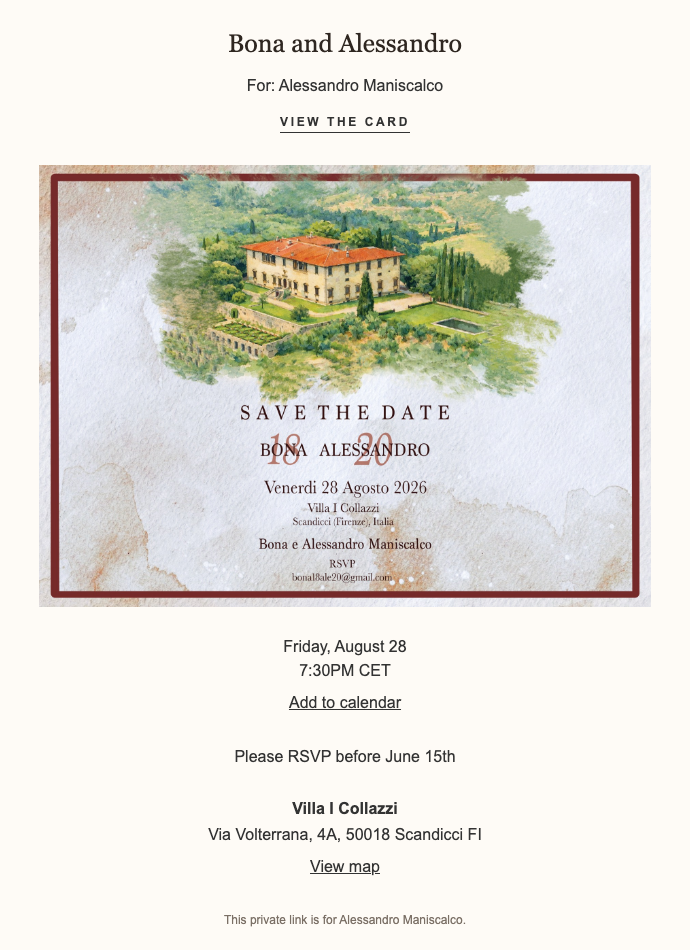
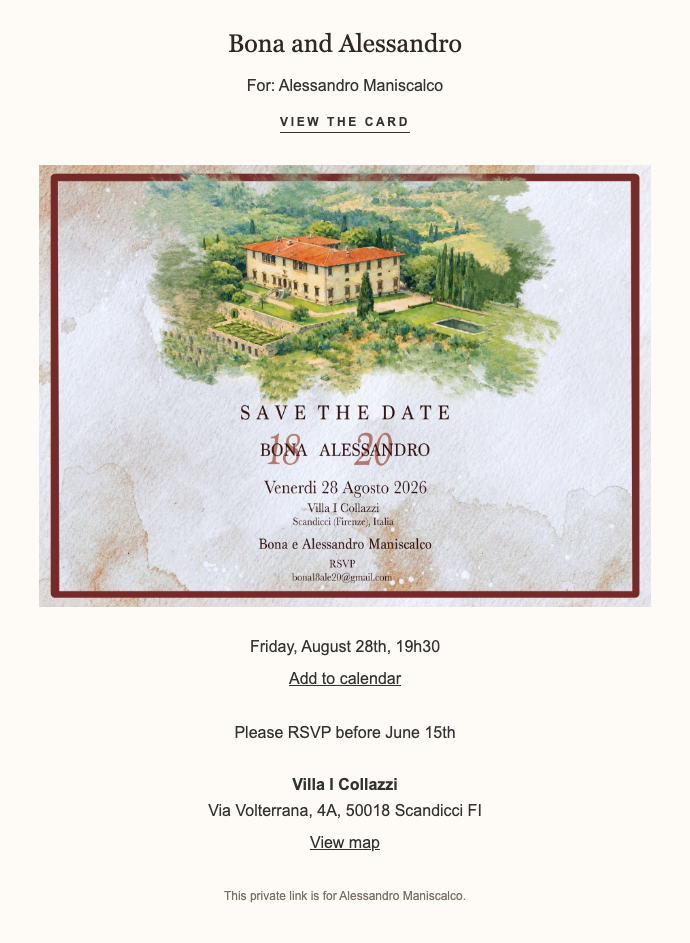
Update RSVP options and date wording

diff --git a/src/components/invitation/rsvp-modal.tsx b/src/components/invitation/rsvp-modal.tsx
@@ -24,6 +24,10 @@ function isImpliedPartyQuestion(question: Question) {
   return question.id === PARTY_QUESTION_ID;
 }
 
+function hasWalkingDinnerQuestion(questions: Question[]) {
+  return questions.some((question) => question.id === WALKING_DINNER_QUESTION_ID);
+}
+
 function buildGuestSelections(guests: Guest[], status: AttendanceStatus) {
   return Object.fromEntries(
     guests.map((guest) => [guest.id, status === "attending"]),
@@ -34,12 +38,13 @@ function buildAnswers(
   questions: Question[],
   response: PartyResponse | undefined,
   status: AttendanceStatus,
+  implyParty: boolean,
 ) {
   return Object.fromEntries(
     questions.map((question) => [
       question.id,
       status === "attending"
-        ? isImpliedPartyQuestion(question) || response?.answers[question.id] || false
+        ? (implyParty && isImpliedPartyQuestion(question)) || response?.answers[question.id] || false
         : false,
     ]),
   );
@@ -49,12 +54,13 @@ function normalizeAnswers(
   questions: Question[],
   answers: Record<string, boolean>,
   status: AttendanceStatus,
+  implyParty: boolean,
 ) {
   return Object.fromEntries(
     questions.map((question) => [
       question.id,
       status === "attending"
-        ? isImpliedPartyQuestion(question) || Boolean(answers[question.id])
+        ? (implyParty && isImpliedPartyQuestion(question)) || Boolean(answers[question.id])
         : false,
     ]),
   );
@@ -79,20 +85,20 @@ export function RsvpModal({
   const [note, setNote] = useState(initialResponse?.note ?? "");
   const [error, setError] = useState<string | null>(null);
   const [isPending, startTransition] = useTransition();
-  const visibleQuestions = questions.filter((question) => !isImpliedPartyQuestion(question));
-  const hasWalkingDinnerOption = questions.some(
-    (question) => question.id === WALKING_DINNER_QUESTION_ID,
+  const hasWalkingDinnerOption = hasWalkingDinnerQuestion(questions);
+  const implyParty = !hasWalkingDinnerOption;
+  const visibleQuestions = questions.filter(
+    (question) => hasWalkingDinnerOption || !isImpliedPartyQuestion(question),
   );
-  const attendingLabel = hasWalkingDinnerOption ? "Will attend the party" : "Will attend";
 
   useEffect(() => {
     if (!open) return;
     const status = preferredStatus ?? initialResponse?.status ?? "attending";
     setAttendanceStatus(status);
-    setAnswers(buildAnswers(questions, initialResponse, status));
+    setAnswers(buildAnswers(questions, initialResponse, status, implyParty));
     setNote(initialResponse?.note ?? "");
     setError(null);
-  }, [guests, initialResponse, open, preferredStatus, questions]);
+  }, [guests, implyParty, initialResponse, open, preferredStatus, questions]);
 
   useEffect(() => {
     if (!open) return;
@@ -144,7 +150,7 @@ export function RsvpModal({
               disabled={readOnly}
               onClick={() => {
                 setAttendanceStatus(status);
-                setAnswers(buildAnswers(questions, initialResponse, status));
+                setAnswers(buildAnswers(questions, initialResponse, status, implyParty));
               }}
               className={`rounded-full px-4 py-2 text-sm font-semibold transition ${
                 attendanceStatus === status
@@ -152,7 +158,7 @@ export function RsvpModal({
                   : "text-stone-600"
               }`}
             >
-              {status === "attending" ? attendingLabel : "Will not attend"}
+              {status === "attending" ? "Will attend" : "Will not attend"}
             </button>
           ))}
         </div>
@@ -224,7 +230,12 @@ export function RsvpModal({
               startTransition(async () => {
                 setError(null);
                 const selections = buildGuestSelections(guests, attendanceStatus);
-                const normalizedAnswers = normalizeAnswers(questions, answers, attendanceStatus);
+                const normalizedAnswers = normalizeAnswers(
+                  questions,
+                  answers,
+                  attendanceStatus,
+                  implyParty,
+                );
                 const response = await fetch("/api/rsvp", {
                   method: "POST",
                   headers: {

diff --git a/tests/e2e/invitation.spec.ts b/tests/e2e/invitation.spec.ts
@@ -4,18 +4,20 @@ test.setTimeout(60_000);
 
 test("guest preview invitation renders and accepts RSVP edits", async ({ page }) => {
   await page.goto("/i/preview-couple");
-  await expect(page.getByRole("button", { name: "Will attend the party" }).first()).toBeVisible();
+  await expect(page.getByRole("button", { name: "Will attend" }).first()).toBeVisible();
   await expect(page.getByText("Bona and Alessandro Maniscalco").first()).toBeVisible();
-  await expect(page.getByText("Thursday August 27th").first()).toBeVisible();
-  await expect(page.getByText("Friday August 28th").first()).toBeVisible();
+  await expect(page.getByText("Thursday, August 27th, 19h30").first()).toBeVisible();
+  await expect(page.getByText("Friday, August 28th, 19h30").first()).toBeVisible();
 
-  await page.getByRole("button", { name: "Will attend the party" }).first().click();
+  await page.getByRole("button", { name: "Will attend" }).first().click();
   await expect(
     page.getByRole("heading", { name: "Will you attend, Taylor & Jordan Russo?" }),
   ).toBeVisible();
   await expect(page.getByText("Bona and Alessandro Maniscalco").nth(1)).toBeVisible();
   await expect(page.getByText("Guest attendance")).toHaveCount(0);
-  await expect(page.getByLabel("The Party - Friday August 28th")).toHaveCount(0);
+  await page.getByLabel("Walking Dinner - Thursday, August 27th, 19h30").check();
+  await page.getByLabel("The Party - Friday, August 28th, 19h30").check();
+  await expect(page.getByLabel("Transfer needed for the party")).toBeVisible();
   await page.getByPlaceholder("Private message to host (optional)").fill("See you there.");
   const rsvpResponse = page.waitForResponse(
     (response) =>
@@ -30,6 +32,7 @@ test("guest preview invitation renders and accepts RSVP edits", async ({ page })
       guest_jordan: true,
     },
     answers: {
+      question_walking_dinner: true,
       question_party: true,
     },
   });
@@ -37,7 +40,7 @@ test("guest preview invitation renders and accepts RSVP edits", async ({ page })
   await expect(
     page.getByRole("heading", { name: "Will you attend, Taylor & Jordan Russo?" }),
   ).toBeHidden({ timeout: 15_000 });
-  await expect(page.getByRole("button", { name: "Will attend the party" }).first()).toBeVisible();
+  await expect(page.getByRole("button", { name: "Will attend" }).first()).toBeVisible();
 
   await page.getByRole("button", { name: "Will not attend" }).first().click();
   await expect(
@@ -46,7 +49,7 @@ test("guest preview invitation renders and accepts RSVP edits", async ({ page })
   await expect(page.getByText("Before you leave, kindly select your preferences below")).toHaveCount(
     0,
   );
-  await expect(page.getByLabel("The Party - Friday August 28th")).toHaveCount(0);
+  await expect(page.getByLabel("The Party - Friday, August 28th, 19h30")).toHaveCount(0);
   await page.getByPlaceholder("Private message to host (optional)").fill("Sorry to miss it.");
   const declineResponsePromise = page.waitForResponse(
     (response) =>
@@ -61,6 +64,7 @@ test("guest preview invitation renders and accepts RSVP edits", async ({ page })
       guest_jordan: false,
     },
     answers: {
+      question_walking_dinner: false,
       question_party: false,
     },
   });

diff --git a/src/lib/seed-data.ts b/src/lib/seed-data.ts
@@ -38,7 +38,7 @@ export function createSeedState(): AppState {
       heroBackdropSrc: "/assets/textures/kraft-paper.jpg",
       paperTextureSrc: "/assets/textures/card-paper.jpg",
       summaryName: "Bona and Alessandro Maniscalco",
-      summaryDateLabel: "Thursday, August 27, 7:30PM – Friday, August 28, 7:30PM CET",
+      summaryDateLabel: "Thursday, August 27th, 19h30 – Friday, August 28th, 19h30",
       summaryAddressName: "Villa I Collazzi",
       summaryAddressLabel: "Via Volterrana, 4A, 50018 Scandicci FI",
       introduction: "",
@@ -50,12 +50,12 @@ export function createSeedState(): AppState {
     questions: [
       {
         id: "question_walking_dinner",
-        label: "Walking Dinner - Thursday August 27th",
+        label: "Walking Dinner - Thursday, August 27th, 19h30",
         type: "checkbox",
       },
       {
         id: "question_party",
-        label: "The Party - Friday August 28th",
+        label: "The Party - Friday, August 28th, 19h30",
         type: "checkbox",
       },
       {
@@ -67,31 +67,31 @@ export function createSeedState(): AppState {
     itinerary: [
       {
         id: "itinerary_dinner",
-        dayLabel: "Thursday August 27th",
+        dayLabel: "Thursday, August 27th, 19h30",
         venueName: "Ristorante Frescobaldi Firenze",
         address: "31 Piazza della Signoria Firenze",
         mapUrl:
           "https://www.google.com/maps/search/?api=1&query=Ristorante+Frescobaldi+Firenze",
         title: "Walking Dinner",
-        datetimeLabel: "Thursday August 27th at 19h30",
+        datetimeLabel: "Thursday, August 27th, 19h30",
         dressCode: "Dress code - Casual Chic",
         description: "",
         imageSrc: "/assets/collazzi/thursday-restaurant.jpeg",
-        note: "Walking Dinner\nThursday August 27th at 19h30\nDress code - Casual Chic",
+        note: "Walking Dinner\nThursday, August 27th, 19h30\nDress code - Casual Chic",
       },
       {
         id: "itinerary_party",
-        dayLabel: "Friday August 28th",
+        dayLabel: "Friday, August 28th, 19h30",
         venueName: "Villa I Collazzi",
         address: "4A Via Volterrana, Impruneta",
         mapUrl:
           "https://www.google.com/maps/search/?api=1&query=Villa+I+Collazzi+Impruneta",
         title: "The Party",
-        datetimeLabel: "Friday August 28th at 19h30",
+        datetimeLabel: "Friday, August 28th, 19h30",
         dressCode: "Dress code - Black Tie and Long Dress",
         description: "",
         imageSrc: "/assets/collazzi/friday-villa.jpeg",
-        note: "The Party \nFriday August 28th at 19h30\nDress code - Black Tie and Long Dress",
+        note: "The Party \nFriday, August 28th, 19h30\nDress code - Black Tie and Long Dress",
         subItems: [
           {
             id: "itinerary_party_shuttle",

diff --git a/src/lib/providers/email-template.ts b/src/lib/providers/email-template.ts
@@ -29,6 +29,7 @@ export function renderInvitationEmail(input: InvitationEmailInput): InvitationEm
   const coupleName = "Bona and Alessandro";
   const cardUrl = absoluteUrl(input.appUrl, input.heroImageSrc || DEFAULT_CARD_IMAGE);
   const dateParts = splitDateLabel(input.summaryDateLabel);
+  const dateLine = [dateParts.date, dateParts.time].filter(Boolean).join(", ");
   const addressName = input.summaryAddressName || "Villa I Collazzi";
   const addressLabel = input.summaryAddressLabel || "Scandicci (Firenze), Italia";
   const mapUrl = input.mapUrl || DEFAULT_MAP_URL;
@@ -86,8 +87,7 @@ export function renderInvitationEmail(input: InvitationEmailInput): InvitationEm
             </tr>
             <tr>
               <td align="center" style="padding:0 40px;">
-                <div style="font-family:Arial,sans-serif;font-size:16px;line-height:24px;color:#333333;">${escapeHtml(dateParts.date)}</div>
-                <div style="font-family:Arial,sans-serif;font-size:16px;line-height:24px;color:#333333;">${escapeHtml(dateParts.time)}</div>
+                <div style="font-family:Arial,sans-serif;font-size:16px;line-height:24px;color:#333333;">${escapeHtml(dateLine)}</div>
                 <div style="font-family:Arial,sans-serif;font-size:16px;line-height:24px;color:#333333;padding-top:8px;">
                   <a href="${escapeAttribute(calendarUrl(input))}" target="_blank" style="color:#333333;text-decoration:underline;">Add to calendar</a>
                 </div>
@@ -131,8 +131,7 @@ export function renderInvitationEmail(input: InvitationEmailInput): InvitationEm
     isReminder ? "Reminder to view the card and RSVP:" : "View the card:",
     input.inviteUrl,
     "",
-    dateParts.date,
-    dateParts.time,
+    dateLine,
     "",
     `Please RSVP before ${rsvpLabel}`,
     "",
@@ -162,8 +161,8 @@ function absoluteUrl(appUrl: string, pathOrUrl: string) {
 function splitDateLabel(label?: string) {
   if (!label) {
     return {
-      date: "Friday, August 28",
-      time: "7:30PM CET",
+      date: "Friday, August 28th",
+      time: "19h30",
     };
   }
 
@@ -172,7 +171,9 @@ function splitDateLabel(label?: string) {
     .map((part) => part.trim())
     .filter(Boolean)
     .at(-1) ?? label;
-  const match = mainEvent.match(/^(.*?),?\s+(\d{1,2}:\d{2}\s*[AP]M.*)$/i);
+  const match = mainEvent.match(
+    /^(.*?),?\s+(\d{1,2}:\d{2}\s*[AP]M.*|\d{1,2}h\d{2}(?:\s*\w+)?)$/i,
+  );
 
   if (!match) {
     return {

diff --git a/src/components/invitation/invitation-experience.tsx b/src/components/invitation/invitation-experience.tsx
@@ -18,8 +18,6 @@ import type {
 
 import styles from "./invitation-experience.module.css";
 
-const WALKING_DINNER_QUESTION_ID = "question_walking_dinner";
-
 function MultilineText({ text, className }: { text: string; className?: string }) {
   return (
     <p className={className}>
@@ -130,10 +128,6 @@ export function InvitationExperience({ invitation }: { invitation: InvitationVie
   const [preferredStatus, setPreferredStatus] = useState<AttendanceStatus | undefined>(undefined);
   const [response, setResponse] = useState<PartyResponse | undefined>(invitation.party.response);
   const party = { ...invitation.party, response };
-  const hasWalkingDinnerOption = invitation.questions.some(
-    (question) => question.id === WALKING_DINNER_QUESTION_ID,
-  );
-  const attendingLabel = hasWalkingDinnerOption ? "Will attend the party" : "Will attend";
   const stageClass =
     stage === 0
       ? styles.stageClosed
@@ -263,7 +257,7 @@ export function InvitationExperience({ invitation }: { invitation: InvitationVie
                       response?.status === "attending" && styles.rsvpButtonActive,
                     )}
                   >
-                    {attendingLabel}
+                    Will attend
                   </button>
                   <button
                     type="button"

diff --git a/src/lib/__tests__/email-template.test.ts b/src/lib/__tests__/email-template.test.ts
@@ -7,7 +7,7 @@ const baseInput = {
   inviteUrl: "https://project-9pfy4.vercel.app/i/guest_example",
   partyLabel: "Alessandro Maniscalco",
   eventTitle: "Bona and Alessandro Maniscalco",
-  summaryDateLabel: "Thursday, August 27, 7:30PM – Friday, August 28, 7:30PM CET",
+  summaryDateLabel: "Thursday, August 27th, 19h30 – Friday, August 28th, 19h30",
   summaryAddressName: "Villa I Collazzi",
   summaryAddressLabel: "Via Volterrana, 4A, 50018 Scandicci FI",
   rsvpDeadline: "2026-06-15T18:00:00.000Z",
@@ -24,7 +24,7 @@ describe("renderInvitationEmail", () => {
     expect(email.subjectLine).toBe("Bona and Alessandro Maniscalco invitation");
     expect(email.bodyPreview).toContain("Open your private invitation");
     expect(email.text).toContain("For: Alessandro Maniscalco");
-    expect(email.text).toContain("Friday, August 28");
+    expect(email.text).toContain("Friday, August 28th, 19h30");
     expect(email.text).toContain("Please RSVP before June 15th");
     expect(email.html).toContain("VIEW THE CARD");
     expect(email.html).toContain("For: Alessandro Maniscalco");

diff --git a/artifacts/email-preview/invite-preview.html b/artifacts/email-preview/invite-preview.html
@@ -43,8 +43,7 @@
             </tr>
             <tr>
               <td align="center" style="padding:0 40px;">
-                <div style="font-family:Arial,sans-serif;font-size:16px;line-height:24px;color:#333333;">Friday, August 28</div>
-                <div style="font-family:Arial,sans-serif;font-size:16px;line-height:24px;color:#333333;">7:30PM CET</div>
+                <div style="font-family:Arial,sans-serif;font-size:16px;line-height:24px;color:#333333;">Friday, August 28th, 19h30</div>
                 <div style="font-family:Arial,sans-serif;font-size:16px;line-height:24px;color:#333333;padding-top:8px;">
                   <a href="https://calendar.google.com/calendar/render?action=TEMPLATE&amp;text=Bona%20and%20Alessandro%20Maniscalco&amp;details=Open%20your%20private%20invitation%3A%20https%3A%2F%2Fproject-9pfy4.vercel.app%2Fi%2Fguest_example_preview&amp;location=Villa%20I%20Collazzi%2C%20Via%20Volterrana%2C%204A%2C%2050018%20Scandicci%20FI" target="_blank" style="color:#333333;text-decoration:underline;">Add to calendar</a>
                 </div>

diff --git a/artifacts/email-preview/reminder-preview.html b/artifacts/email-preview/reminder-preview.html
@@ -43,8 +43,7 @@
             </tr>
             <tr>
               <td align="center" style="padding:0 40px;">
-                <div style="font-family:Arial,sans-serif;font-size:16px;line-height:24px;color:#333333;">Friday, August 28</div>
-                <div style="font-family:Arial,sans-serif;font-size:16px;line-height:24px;color:#333333;">7:30PM CET</div>
+                <div style="font-family:Arial,sans-serif;font-size:16px;line-height:24px;color:#333333;">Friday, August 28th, 19h30</div>
                 <div style="font-family:Arial,sans-serif;font-size:16px;line-height:24px;color:#333333;padding-top:8px;">
                   <a href="https://calendar.google.com/calendar/render?action=TEMPLATE&amp;text=Bona%20and%20Alessandro%20Maniscalco&amp;details=Open%20your%20private%20invitation%3A%20https%3A%2F%2Fproject-9pfy4.vercel.app%2Fi%2Fguest_example_preview&amp;location=Villa%20I%20Collazzi%2C%20Via%20Volterrana%2C%204A%2C%2050018%20Scandicci%20FI" target="_blank" style="color:#333333;text-decoration:underline;">Add to calendar</a>
                 </div>
